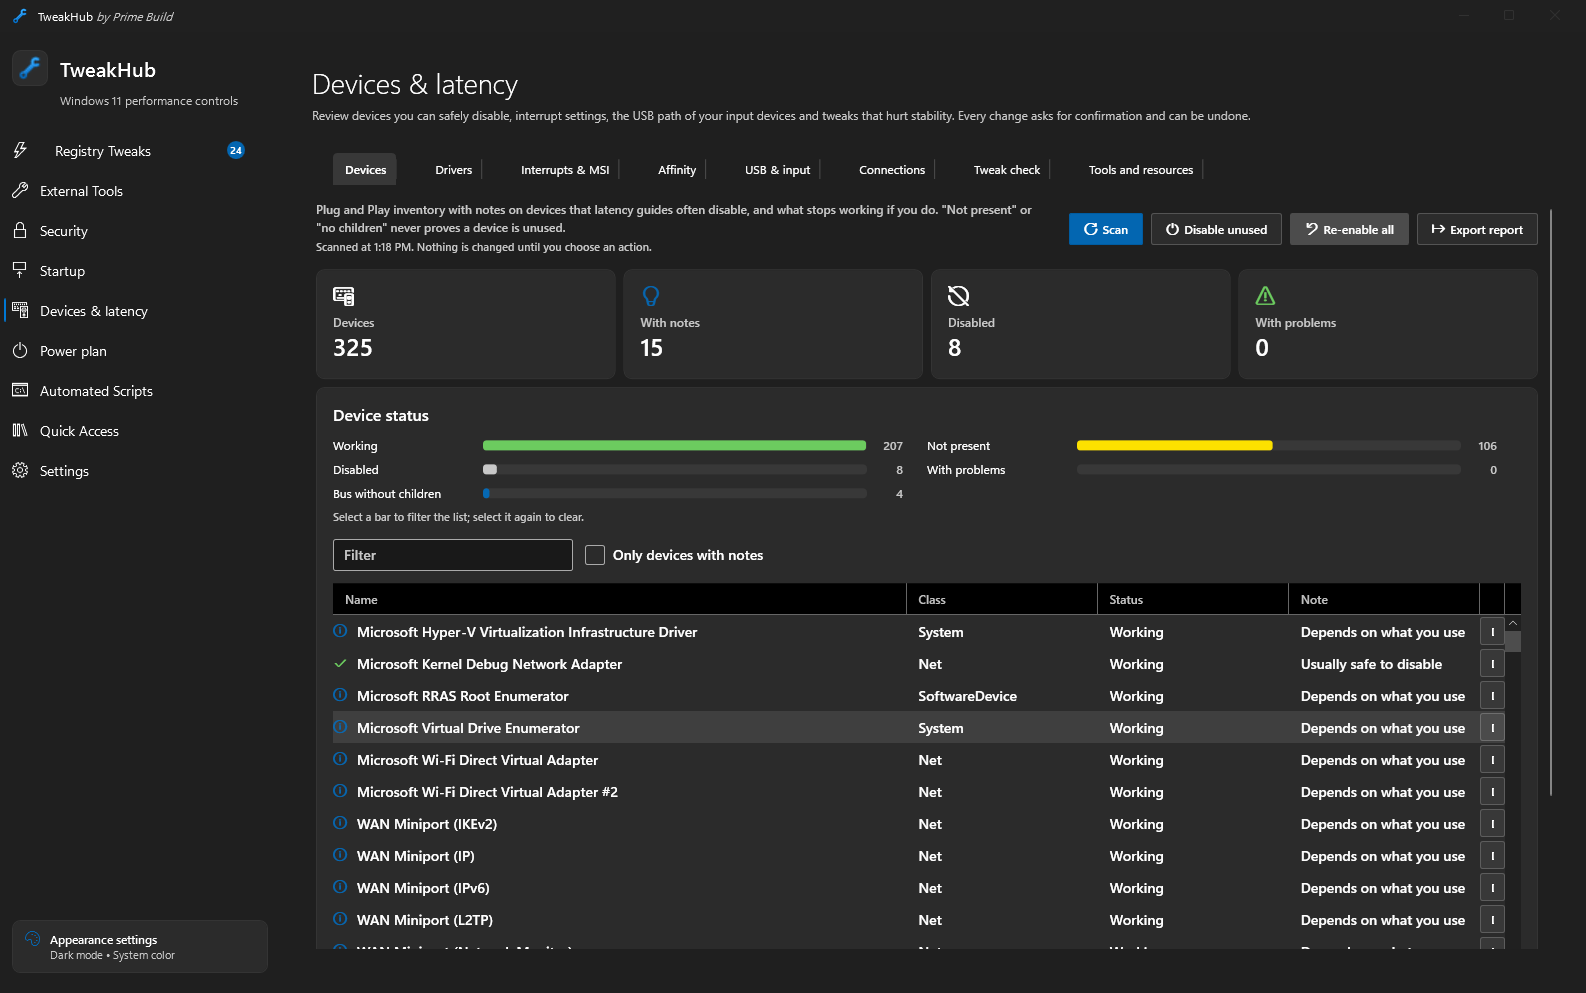
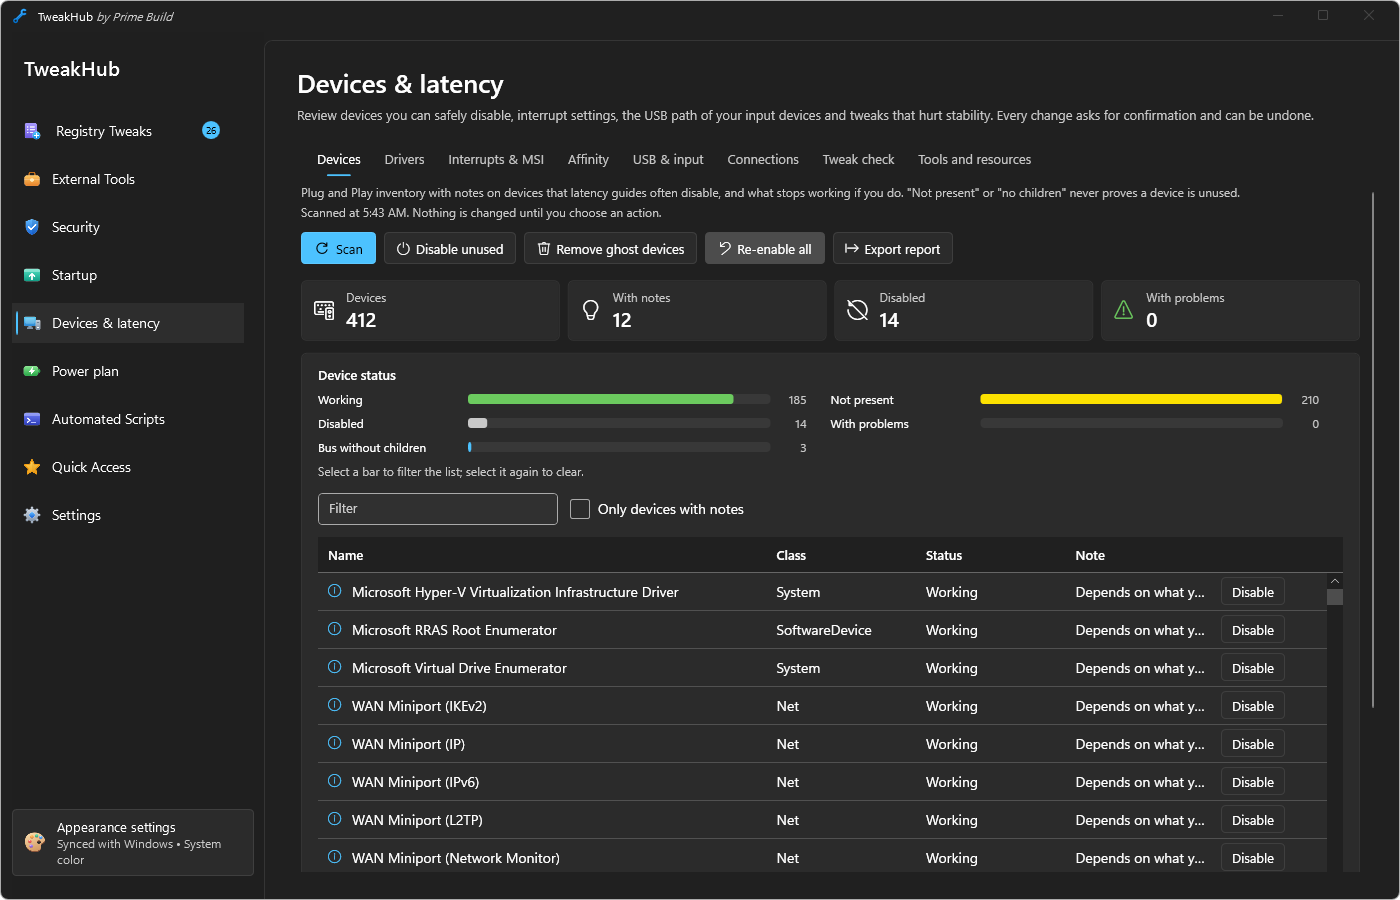
docs: refresh screenshots and position TweakHub as a setup hub

diff --git a/README.md b/README.md
@@ -1,7 +1,7 @@
 <div align="center">
   <img src="assets/logo.png" alt="TweakHub wrench logo" width="128">
   <h1>TweakHub</h1>
-  <p><strong>A portable control center for Windows 11: add your own tweaks, scripts and favorites, carry it on a USB stick, and reach the specialist tools from one place.</strong><br>For advanced users and technicians who configure, rebuild and maintain PCs. Free and open source (MIT).</p>
+  <p><strong>Start here when setting up a Windows 11 PC. Find and install specialist tools, use built-in controls, and bring your own scripts in one portable hub.</strong><br>For advanced users and technicians who configure, rebuild and maintain PCs. Free and open source (MIT).</p>
   <p>
     <a href="https://github.com/PrimeBuild-pc/TweakHub/commits/main"><img alt="Last commit" src="https://img.shields.io/github/last-commit/PrimeBuild-pc/TweakHub?style=plastic&amp;logo=git&amp;logoColor=white"></a>
     <a href="https://github.com/PrimeBuild-pc/TweakHub/stargazers"><img alt="GitHub stars" src="https://img.shields.io/github/stars/PrimeBuild-pc/TweakHub?style=plastic&amp;logo=github"></a>
@@ -28,7 +28,7 @@
     <a href="#build-from-source"><b>Build</b></a>
   </p>
   <a id="screenshots"></a>
-  <a href="assets/screenshots/security-overview.png"><img src="assets/screenshots/security-overview.png" alt="TweakHub Security overview with the security score ring" width="900"></a>
+  <a href="assets/screenshots/external-tools.png"><img src="assets/screenshots/external-tools.png" alt="TweakHub External Tools catalog with WinGet install and batch selection" width="900"></a>
 </div>
 
 <table>
@@ -49,6 +49,7 @@
     <td align="center"><a href="assets/screenshots/external-tools.png"><img src="assets/screenshots/external-tools.png" alt="External tools" width="440"></a><br><sub><b>External Tools</b></sub></td>
     <td align="center"><a href="assets/screenshots/quick-access.png"><img src="assets/screenshots/quick-access.png" alt="Quick access" width="440"></a><br><sub><b>Quick Access</b></sub></td>
     <td align="center"><a href="assets/screenshots/settings.png"><img src="assets/screenshots/settings.png" alt="Settings" width="440"></a><br><sub><b>Settings</b></sub></td>
+    <td align="center"><a href="assets/screenshots/startup-disclaimer.png"><img src="assets/screenshots/startup-disclaimer.png" alt="Startup notice with I understand and Decline and exit buttons" width="440"></a><br><sub><b>Startup notice</b></sub></td>
   </tr>
 </table>
 
@@ -67,14 +68,12 @@ It runs as the current user and requests administrator privileges only when an o
 
 ## How it compares
 
-TweakHub does not try to replace [WinUtil](https://github.com/ChrisTitusTech/winutil), [Winaero Tweaker](https://winaero.com/winaero-tweaker/) or other tweak tools. It sits next to them.
+Start with TweakHub when setting up, tuning or maintaining a Windows 11 PC. It brings together your tools and workflows in one place. [WinUtil](https://github.com/ChrisTitusTech/winutil), [Winaero Tweaker](https://winaero.com/winaero-tweaker/) and the other dedicated apps still handle their specialist jobs.
 
-- **It is yours to extend.** Add your own Registry tweaks, PowerShell/CMD scripts, playbooks and tool cards next to the built-in ones, and keep a favorites section. You do not need to write a tool of your own.
-- **It is portable.** Settings, scripts and rollback data stay beside `TweakHub.exe`, so you can carry the whole folder on a USB stick and configure many PCs. Nothing is stored in a cloud account.
-- **It links the rest.** The External Tools catalog lists WinUtil and many single-purpose tools, including specialist ones for stability testing, overclocking, firmware and flashing (categories such as *Benchmarks & Stability* and *Firmware & Power*). Install TweakHub and reach the others from there. Cards open the tool's official page, and some also install it through WinGet.
-- **Built-in tweaks are reversible.** Each has a preview, an automatic backup, verification and rollback.
-
-What it is not: a one-click optimizer, a tool for beginners (see the warning above), or a replacement for the dedicated tools it links. Windows 11 only. Releases may be unsigned.
+- **Build your toolkit.** Find tools for stability testing, overclocking, firmware and repair in External Tools. Install supported packages through WinGet, including in batches, or open the tool's official page.
+- **Use the advanced tools built in.** Inspect devices and interrupt settings, edit power plans, review security and startup entries, and preview and restore supported Registry tweaks.
+- **Bring your own workflow.** Import PowerShell and CMD scripts, add custom Registry tweaks and tool cards, and organize repeatable tasks into playbooks.
+- **Carry it from PC to PC.** Keep your scripts, favorites and settings in the portable folder. Rollback records are kept locally and scoped to the PC and Windows account that created them.
 
 ## Features
 
@@ -120,6 +119,14 @@ What it is not: a one-click optimizer, a tool for beginners (see the warning abo
     </td>
   </tr>
 </table>
+
+New in 1.8.1:
+- **Ghost devices:** check whether a device is disconnected before removing it, show first-install and last-used dates when available, and confirm the exact number selected. A filter can hide recently used devices.
+- **Startup notice:** choose **I understand** to continue or **Decline and exit** to close TweakHub.
+
+New in 1.8.0:
+- **Faster startup:** the main window opens sooner, secondary scans run on demand, and device inventory and interrupt scans use native Windows APIs.
+- **Updated interface:** searchable Quick Access, a collapsible sidebar, and batch installation of supported WinGet packages from External Tools.
 
 New in 1.7.0:
 - **Suggested interrupt layout** (Devices → Affinity): one physical core each for graphics, USB, network and audio, outside core 0, chosen from the CPU topology (P-cores only on hybrid CPUs, the CCD without 3D V-Cache on dual-CCD Ryzen). Only devices in use count: disabled devices, network cards without a link, the graphics card's HDMI/DisplayPort audio and unused sound cards are left out. The USB controller of your DAC or audio interface gets the audio core when no mouse or keyboard shares it. The preview lists what is plugged into each USB controller, warns about headphones on a front-panel jack, shows the measured load of the chosen cores, offers MSI where the driver supports it, and tells whether Windows already uses the layout or needs a restart. One backup and one elevation; each device is undone with its restore button.
